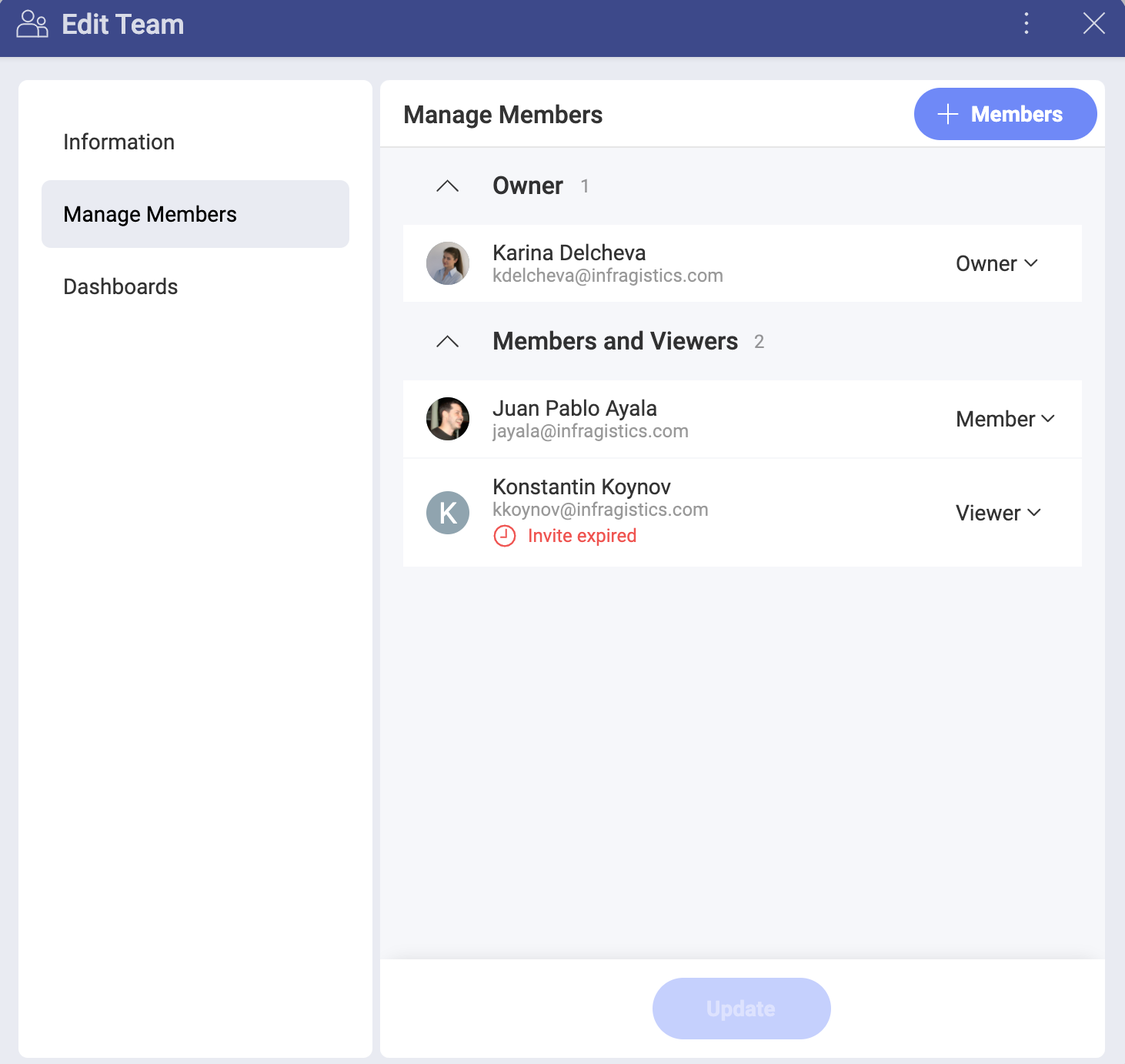
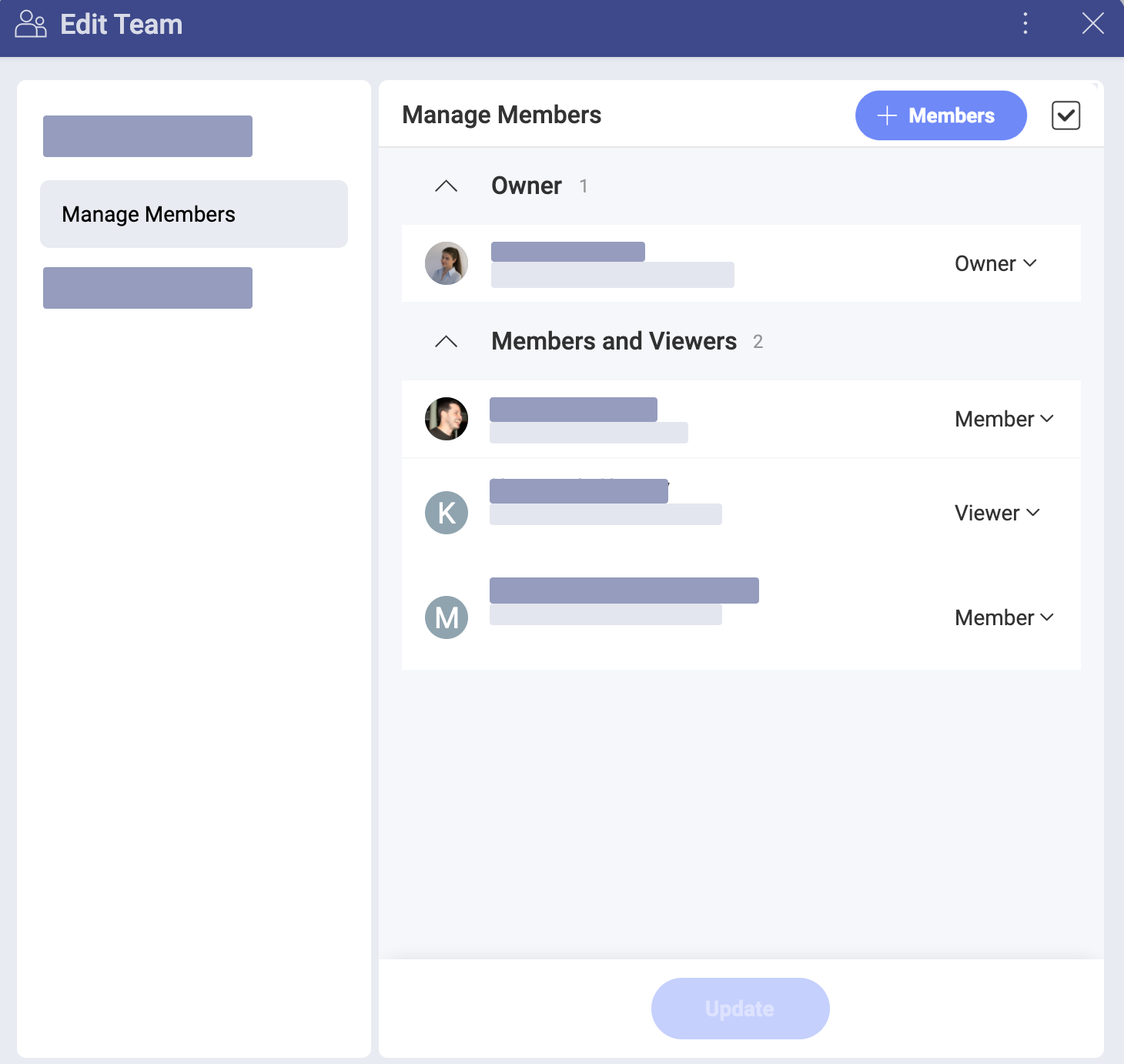
Fix images syntax, add 2 new screenshots and reveal-docs update.

diff --git a/docTopics/en/components/teams-starting.md b/docTopics/en/components/teams-starting.md
@@ -8,52 +8,52 @@ Read on to get answers to most of your questions about teams.
 In Slingshot, people can join an organization, one or more teams, and also one or more projects.  
 The purpose of having an organization team is for company leaders to have the ability to communicate key goals, metrics, strategies, and important announcements throughout their organization.   
 
-![An Organization team](../images/main-organization-team.png)
+**The organization team** is named after your organization (e.g. your company's name). Members need to log in with their organization’s email to be associated with the organization team.
 
-The organization team is named after your organization (e.g. your company's name). Members need to log in with their organization’s email to be associated with the organization team.
+<img src="../images/main-organization-team.png" alt="An Organization team" width="100%"/>
 
-Teams can be associated with the organization team or not. They can include members from within and out of the main organization team. Team members share not only **Content**, **Dashboards**, and **Discussions**, but also **Projects** and **Tasks**.
+**Teams** can be associated with the organization team or not. They can include members from within and out of the main organization team. Team members share not only *Content*, *Dashboards*, and *Discussions*, but also *Projects* and *Tasks*.
 
-![Example of a team and its tasks](../images/teams-example-tasks.png)
+<img src="../images/teams-example-tasks.png" alt="Example of a team and its tasks" width="100%"/>
 
-Projects live inside of a team, but are not limited to its members. You can invite people from other teams to every project. A project contains its own **Overview**, **Tasks**, **Discussions**, **Content**, and **Dashboards**. You can also assign tasks within a project to people, who are not part of the project or the team.
+**Projects** live inside of a team, but are not limited to its members. You can invite people from other teams to every project. A project contains its own *Overview*, *Tasks*, *Discussions*, *Content*, and *Dashboards*. You can also assign tasks within a project to people, who are not part of the project or the team.
 
-![A project Overview](../images/project-example-overview.png)
+<img src="../images/project-example-overview.png" alt="A project Overview" width="100%"/>
 
 ### How Can I Access my Teams?
 
 You can access your teams on the very left of the screen as shown below.
 
-![The Teams navigation menu opened with a list of teams in it](../images/teams-list.png)
+<img src="../images/teams-list.png" alt="The Teams navigation menu opened with a list of teams in it" width="100%"/>
 
-By scrolling down you are able to navigate all your teams and their projects. If you bookmarked a team or project to keep it at hand, you can select _Bookmarks_ to find it faster.   Under each project's name you will find the team it belongs to (see below).
+By scrolling down you are able to navigate all your teams and their projects. If you bookmarked a team or project to keep it at hand, you can select _Bookmarks_ to find it faster.   Under each project's name you will find the team where it lives (see below).
 
-![Teams navigation menu opened and Bookmarks selected](../images/teams-bookmarks.png)
+<img src="../images/teams-bookmarks.png" alt="Teams navigation menu opened and Bookmarks selected" width="100%"/>
 
 To navigate to any team, just click/tap over it.
 
 ### How Can I Discover and Join Other Teams?
 
-To become a team member you first need to discover your new team. Select the _Join or Create a Team_ button at the end of your teams' list to open a dialog with the available teams to join.
+To become a team member you first need to discover your new team. Select the _Join or Create a Team_ button at the bottom of the *Teams* tab to open a dialog with the available teams.
 
-![Join or Create a Team blue button](../images/join-create-button.png)
+<img src="../images/join-create-button.png" alt="Join or Create a Team blue button" width="100%"/>
 
-In this dialog, you will find **only public teams, part of your Organization**. You can join these teams on the spot, getting the Member role.
+In this dialog, you will find **only public teams, part of your organization**. You can join these teams on the spot, getting the Member role by default.
 
 To become part of **private teams or teams outside of your organization**, you need to be invited by their Owner.
 
 ### How Can I Create a New Team?
 
 Every user in Slingshot can create teams.  
-Access the team creation menu by selecting the *Join or Create a Team button* (see screenshot below) > *+ Create Team*.
+Access the team creation menu by selecting the *Teams* tab > *Join or Create a Team* button > *+ Create Team*.
 
-![The Create Team menu](../images/create-team-dialog.png)
+<img src="../images/create-team-dialog.png" alt="The Create Team menu" width="100%"/>
 
 In this dialog, configure the following:
 * ***Team Name*** - giving your team a descriptive and meaningful name is always worth the effort.
 * *(Optional)* ***Description*** - descriptions are helpful and nice to have, but absolutely optional in Slingshot.
-* ***Organization*** - choose whether your team will be part of the Main Organization or will exist as your Personal Team. How to choose and what is the difference?  
-    - **Teams, part of the main organization**, follow the internal rules and principles of the organization. These teams can be [discovered and joined](#how-can-i-discover-and-join-other-teams) by every member of the main Organization.
+* ***Organization*** - choose whether your team will be part of the main organization or will exist as your Personal Team. How to choose and what is the difference?  
+    - **Teams, part of the main organization**, follow the internal rules and principles of the organization. These teams can be [discovered and joined](#how-can-i-discover-and-join-other-teams) by every member of the main organization.
 
     - **Personal Teams** give you more freedom and less discoverability. Others cannot find your team in the _Join list_ so they can join only if they are invited. Only you and other owners of this team can manage it and delete it.
 * **Privacy** - this setting is only available for teams, part of the main organization.
@@ -63,32 +63,39 @@ In this dialog, configure the following:
 >[!NOTE]
 >Be aware that your team can be deleted by an Owner of the main organization anytime (even if you are an Owner too).
 
-Click *Create* and proceed to invite team members by adding their emails to the list:
+Click **Create**. Your team is created and you can find it in the _Teams_ tab. 
 
-![Inviting team members](../images/invite-members.png)
+You are now prompted to start inviting team members, but you can also leave this step for later if you prefer. 
+
+To invite members, click/tap the **+ Members** blue button. You can choose members from the dropdown list (see below) or use the search bar to add the emails of users who are outside of your Organization. 
+
+<img src="../images/team-invite-members.png" alt="Inviting team members" width=100%>
 
 >[!NOTE]
 >When adding members, whose emails are not auto-completed by Slingshot, type the whole email and press Enter to add it to the list of users you want to invite.
 
-After selecting the _Send Invites_ button your new team is created. You will find it in the [Teams' list](#how-can-i-access-my-teams) shown above.
+Select **Done** when you are ready. All users in the list are assigned the default _Member_ role. From the dropdown next to each name, you can change the role to _Owner_ or _Viewer_. How are these roles different from _Member_? See in the [Roles & Permissions](roles-permissions.md) topic.
 
 ### How Can I Get Visibility Over a Team?
 
 Every team has a place where the most important information is visible at first look. This is the **Team Overview**.  
-Upon accessing a team, you will have its overview opened.  
 
-<img src="../images/team-overview.png" alt="A team's overview screen" width="800"/>
+After accessing a team, you will find its *Overview* tab on the left (see below).  
 
-You can find the following elements in every team's overview:
+<img src="../images/overview-tab.png" alt="A team's overview screen" width="100%"/>
 
-1. **Settings** of the team - select the gear icon to view or [change](#how-can-i-change-the-teams-privacy-name-or-description) the team's name, description, organization, and privacy settings. You can also [delete](#deleting-vs-leaving-a-team) the team.
-2. **Team members** - click on the profile images (or initial) icons on the left board to view or [manage members](#how-can-i-manage-team-members).
-3. **Content** - click the overflow menu to pin content, weblinks and dashboards that are essential for your team's work. To do this, select the overflow menu on the right of *CONTENT*. Use the team's *Content* tab on the left to store and organize more content.
+You can find three widgets in every team's overview: **_Details_**, ***Your Mentions*** and ***Task Status*/*Activity***. Each of these widgets includes important information and resources for your team. 
 
-    >[!NOTE] If your teammates don't have the file (folder) in their cloud storage or shared cloud storage, they **will not be able to access the content** pinned in the Team *Overview*. In this case, you can pin the file (folder) in *Content* (in the left tab) to share it with them.
+Let's look at the widgets and their elements more closely. 
+
+1. *(Optional)* **Description** of the team - here you can see the team's description. You can change the description by selecting the *gear icon* on top, next to your team's name.
+2. **Team members** - click on the profile images under the team's description to view and [manage members](#how-can-i-manage-team-members).
+3. **Content** - click the overflow menu to pin content, weblinks and dashboards that are essential for your team's work. To do this, select **+ Pin** at the bottom. Use the team's *Content* tab on top to store and organize more content.
+
+    >[!NOTE] If you pin a file (or folder) in the team *Overview* and your teammates don't have this file (folder) in their personal or shared cloud storage, they will not be able to access it. In this case, select the *Content* tab on top and pin the file (folder). This way you will share it with your teammates and they will be able to access it both from *Content* and *Overview*.
 
 4. **Mentions** - when other team members mention you, a team, or a project of yours (by using the _@ sign_) in a *Topic* in the *Teams' Discussions* or in the _Activity_ chat (see in *number 6* below), you will see a notification on this board. Upon clicking on it, you will be navigated to where the message is located.
-5. **Task Status** - here you will find a list of all members. Under each name, you will see the number of all current tasks for each user. The circle on the right uses colors to show what part of all tasks  is complete (blue), not started (grey), in progress (green), in review (purple), blocked (yellow).
+5. **Task Status** - here you will find a list of all members. Under each name, you will see the number of all current tasks for each user with the number of tasks done. Also, you may see a *fire icon* with a number next to it, which shows how many tasks are overdue. The circle on the right uses colors to show what part of all tasks  is complete (blue), not started (grey), in progress (green), in review (purple), blocked (yellow).
 6. **Activity** - here you will find a log of all recent activity in your team - changes in settings, team members, tasks, etc.
 7. **Overflow** menu - use this menu to add your team's overview to *Bookmarks* or copy a link to it to your clipboard.
 
@@ -101,64 +108,61 @@ Team members are an essential part of the concept of a team. As an owner of a te
 - remove members, and
 - change members' roles.
 
-**Access the team members' dialog** by selecting the team's [Overview](#how-can-i-get-visibility-over-a-team) > Details widget (on the left) >  profile images icons (above _Content_).
+**Access the team members' dialog** by clicking/tapping the 
+*gear icon* next to your team's name. In the _Edit Team_ dialog, select **Manage Members** on the right. 
 
-![The team members' dialog](../images/team-members-dialog.png)
+<img src="../images/team-members-dialog.png" alt="The team members' dialog" width="100%" />
 
-To invite new members click on the *+ Members* blue button.
+To invite new members click/tap the **+ Members** blue button.
 
 In the dialog above, you will find a list of all team members and their roles. You can change each member's role or remove the member from the team by clicking on the role's dropdown.
 
 You can change the role of or remove more than one member at the same time. To do this:
 
 1. Select the checked box on the right of the _+Members_ blue button.
-2. Checkboxes on the right of members' roles appear:
-
-![Checkboxes appear for each member allowing to change roles or delete members simultaneously](../images/select-more-than-one-member.png)
-
-3. Select the checkboxes of members you want to remove/change the roles of.
-4. Choose the trash icon or a role from the menu at the bottom center of the screen and apply for all simultaneously.
+2. Checkboxes on the right of members' roles appear.
+3. Select the checkboxes of members, who you want to remove or whose roles you want to change.
+4. Choose the *trash icon* or a role from the menu at the bottom center of the screen and apply to all simultaneously.
 
 ### Can I Work with People from Outside of a Team?
 
 Sometimes you may need to work on a particular task or project with people outside of your team. In this case, it doesn't make sense to add them as members to your team.
 
-You can assign tasks to members outside of your team in the team's _Tasks_ tab on the left.
+You can assign tasks to users who are external for your team by accessing the team's **Tasks** tab on top and creating a task. 
 
-![Tasks tab in a team](../images/tasks-tab-team.png)
+<img src="../images/tasks-tab-team.png" alt="Tasks tab in a team" width="100%"/>
 
 Users will receive a notification about the task they were assigned. For them the task will appear in _Home > Tasks_.  
-
 
 All members of a team can be members for its projects and you can also add external members to projects.  
 
 To do this:
 
-1. Navigate to your _team > Projects > Selected Project > Project Overview_ (in the tab bar on the left).
-2. Click/tap on the _profile images icons_ (left widget in *Overview*) to open _Who is working on this?_ dialog:
+1. Navigate to your **team > Projects > Selected Project > Project Overview** (in the tab bar on top).
+2. Click/tap on the **profile images icons** (*Details* widget in *Overview*) to open _Edit Project_ dialog:
 
-![External tab in the Who is working on this? dialog](../images/external-members-project.png)
+<img src="../images/external-members-project.png" alt="External tab in the Who is working on this? dialog" width="100%"/>
 
 3. Choose _External > + Members_ blue button to add members who are not part of the team to this project.
 
 You can also go directly to a project's *Tasks* tab and assign a task to an external member.
 
->[!NOTE] **External members** can work with any other Slingshot users. They don't need to be part of the same main organization as you.
+>[!NOTE] **External members** can work with any other Slingshot users. They don't need to be part of the same main Organization as you.
 
 External members, who are added to a project, will receive notifications about the project and its state. They will also be notified when the project is mentioned (by using the *@ sign* + the project's name).
 
 Every team member can stop receiving (unfollow) notifications about a project and its mentions. To do this, navigate to the *Who is working on this?* dialog > *Team members* and unmark the checkbox next to your name, as shown below:
 
-![Unmark checkbox to unfollow project](../images/unfollow-project.png)
+<img src="../images/unfollow-project.png" alt="Unmark checkbox to unfollow project" width="100%"/>
 
 The Owner of a team can also exclude team members from a project.  
-After unfollowing a project, you will receive only notifications about tasks within this project assigned to you.    
+After unfollowing a project, you will receive notifications only about the tasks assigned to you within this project.    
 
 ### How Can I Change the Team's Privacy, Name or Description?
 
-If you are the Owner of a team you can change your team's settings. To do this, go to the team's [Overview](#how-can-i-get-visibility-over-a-team) and select the gear icon:
+If you are the Owner of a team you can change your team's settings. To do this, select your team and click/tap the **gear icon** next on top.
 
-![Accessing team settings](../images/access-team-settings.png)
+<img src="../images/access-team-settings.png" alt="Accessing team settings" width="100%" />
 
 Here you can change your team's name, description and privacy.
 
@@ -167,26 +171,26 @@ Here you can change your team's name, description and privacy.
 
 ### Why are Teams Public By Default?
 
-A newly created team is public by default, meaning that any member of the main organization can search and join the team. Trust and transparency are key elements for effective collaboration, and also help with ownership and accountability.
+A newly created team is public by default, meaning that any member of the main Organization can search and join the team. Trust and transparency are key elements for effective collaboration, and also help with ownership and accountability.
 
-That being said, sometimes you might need to have a private team, leaving your team out of the search results. In this case, users can only join the team by getting invitations from existing members. This is helpful for teams that handle sensitive information, in those cases the organization wants to restrict access.
+That being said, sometimes you might need to have a private team, leaving your team out of the search results. In this case, users can only join the team by getting invitations from existing members. This is helpful for teams that handle sensitive information. In those cases the organization wants to restrict access.
 
 ### Deleting vs Leaving a Team
 
 To make a team disappear from your Slingshot space you can either delete or leave it.
 
-Only the Owner can delete a team. As an exception, you can also delete a team if you have the Member's permissions provided that:
-- the team is part of the main organization;
-- you are an Owner in the main organization.
+Only the *Owner* can delete a team. As an exception, a *Member* can also delete a team provided that:
+- the team is part of the main Organization;
+- they are an Owner in the main Organization.
 
-To delete a team, go to its [settings](#how-can-i-change-the-teams-privacy-name-or-description) and select the overflow button:
+To **delete** a team, go to its [settings](#how-can-i-change-the-teams-privacy-name-or-description) and select the overflow button:
 
-![Overflow button location in the Team's settings](../images/overflow-menu-settings.png)
+<img src="../images/overflow-menu-settings.png" alt="Overflow button location in the Team's settings" width="100%"/>
 
-Deleting a team removes it and all its contents for all its members.
+Deleting removes the team with all its contents for all its members.
 
 To remove a team and its content only for you, use the **leave** option. You can do this by going to the team's [members list](#how-can-i-manage-team-members), click/tap your role and select *Leave* at the bottom. If you are the only Owner of a team you cannot leave it without assigning another member as an Owner.
 
-![Assigning a new Owner before leaving a team](../images/assign-new-owner-team.png)
+<img src="../images/assign-new-owner-team.png" alt="Assigning a new Owner before leaving a team" width="100%"/>
 
 All the members of the team who are suitable for an Owner’s role appear in a list in the *Leave Team?* dialog (see above).

diff --git a/docfx/jp/components/teams-starting.md b/docfx/jp/components/teams-starting.md
@@ -9,27 +9,27 @@ In Slingshot, people can join an organization, one or more teams, and also one o
 The purpose of having an organization team is for company leaders to have the ability to communicate key goals, metrics, strategies, and important announcements throughout their organization.   
 The organization team is named after your organization (e.g. your company's name). Members need to log in with their organization’s email to be associated with the organization team.
 
-![An Organization team](../images/main-organization-team.png)
+<img src="../images/main-organization-team.png" alt="An Organization team" width="100%"/>
 
 The Organization team has only three available tabs on the right: *Discussions, Content*, and *Dashboards*.
 
 Teams can be associated with the organization team or not. They can include members from within and out of the main Organization team. Team members share not only *Content, Dashboards*, and *Discussions*, but also *Projects* and *Tasks*.
 
-![Example of a team and its tasks](../images/teams-example-tasks.png)
+<img src="../images/teams-example-tasks.png" alt="Example of a team and its tasks" width="100%"/>
 
 Projects live inside of a team, but are not limited to its members. You can invite people from other teams to every project. A project contains its own *Overview, Tasks, Discussions, Content,* and *Dashboards*. You can also assign tasks within a project to people, who are not part of the project or the team.
 
-![A project Overview](../images/project-example-overview.png)
+<img src="../images/project-example-overview.png" alt="A project Overview" width="100%"/>
 
 ### How can I access my teams?
 
 You can access your teams on the very left of the screen as shown below.
 
-![The Teams navigation menu opened with a list of teams in it](../images/teams-list.png)
+<img src="../images/teams-list.png" alt="The Teams navigation menu opened with a list of teams in it" width="100%"/>
 
 By scrolling down you are able to navigate all your teams and their projects. If you bookmarked a team to keep it at hand, you can select bookmarks here to find that team faster. This also goes for the projects. Under each project's name you will find the team it is part of (see below).
 
-![Teams navigation menu opened and Bookmarks selected](../images/teams-bookmarks.png)
+<img src="../images/teams-bookmarks.png" alt="Teams navigation menu opened and Bookmarks selected" width="100%"/>
 
 To **navigate to any team**, just click/tap over it.
 
@@ -37,7 +37,7 @@ To **navigate to any team**, just click/tap over it.
 
 To become a team member you first need to discover your new team. Select the _Join or Create a Team_ button at the bottom of your teams' list to open a dialog with the available teams to join:
 
-![Join or Create a Team blue button](../images/join-create-button.png)
+<img src="../images/join-create-button.png" alt="Join or Create a Team blue button" width="100%"/>
 
 In this dialog, you will find **only public teams, which are part of your Organization**. You can join these teams by yourself, receiving the role of a Member.
 
@@ -48,7 +48,7 @@ To become part of **teams, which are outside of your organization**, you need to
 Every user in Slingshot can create teams.  
 **Access the team creation menu** by selecting the *Join or Create a Team button* (see screenshot below) > *+ Create Team*. In this dialog, configure the following:
 
-![The Create Team menu](../images/create-team-dialog.png)
+<img src="../images/create-team-dialog.png" alt="The Create Team menu" width="100%"/>
 
 * ***Team Name*** - giving your team a descriptive and meaningful name is always worth the effort.
 * *(Optional)* ***Description*** - descriptions are helpful and nice to have, but absolutely optional in Slingshot.
@@ -65,7 +65,7 @@ Every user in Slingshot can create teams.
 
 Click *Create* and proceed to **inviting team members** by adding their emails to the list:
 
-![Inviting team members](../images/invite-members.png)
+<img src="../images/invite-members.png" alt="Inviting team members" width="100%"/>
 
 >[!NOTE]
 >When adding members, whose emails are not auto-completed by Slingshot, type the whole email and press Enter to add it to the list of users you want to invite.
@@ -103,7 +103,7 @@ Team members are an essential part of the concept for a team. As an owner of a t
 
 **Access the team members' dialog** by selecting the team's [Overview](#how-can-i-get-visibility-over-a-team) > Details widget (on the left) >  profile images icons (above _Content_).
 
-![The team members' dialog](../images/team-members-dialog.png)
+<img src="../images/team-members-dialog.png" alt="The team members' dialog" width="100%"/>
 
 To **invite new members** click on the *+ Members* blue button.
 
@@ -114,7 +114,7 @@ You can change the role of or remove **more than one member at the same time**. 
 1. Select the checked box on the right of the *+Members* blue button.
 2. Checkboxes on the right of members' roles appear:
 
-![Checkboxes appear for each member allowing to change roles or delete members simultaneously](../images/select-more-than-one-member.png)
+<img src="../images/select-more-than-one-member.png" alt="Checkboxes appear for each member allowing to change roles or delete members simultaneously" width="100%"/>
 
 3. Select the checkboxes of members you want to remove/change the roles of.
 4. Choose the trash icon or a role from the menu at the bottom center of the screen and **apply for all simultaneously**.
@@ -125,7 +125,7 @@ Sometimes you may need to work on a particular task or project with people outsi
 
 You can **assign tasks** to members outside of your team in the team's *Tasks* tab on the left.
 
-![Tasks tab in a team](../images/tasks-tab-team.png)
+<img src="../images/tasks-tab-team.png" alt="Tasks tab in a team" width="100%"/>
 
 Users will receive a notification about the task they were assigned. For them the task will appear in *Home > Tasks*.  
 
@@ -137,7 +137,7 @@ To do this:
 1. Navigate to your **team** > **Projects** > **Selected Project** > Project **Overview** (in the tab bar on the left).
 2. Click/tap on the **profile images icons** (left widget in *Overview*) to open _Who is working on this?_ dialog:
 
-![External tab in the Who is working on this? dialog](../images/external-members-project.png)
+<img src="../images/external-members-project.png" alt="External tab in the Who is working on this? dialog" width="100%"/>
 
 3. Choose **External** > **+ Members** blue button to add members who are not part of the team to this project.
 
@@ -149,7 +149,7 @@ External members, who are added to a project, will receive **notifications** abo
 
 Every team member can **stop receiving (unfollow) notifications** about a project and its mentions. To do this, navigate to the *Who is working on this?* dialog > *Team members* and unmark the checkbox next to your name, as shown below:
 
-![Unmark checkbox to unfollow project](../images/unfollow-project.png)
+<img src="../images/unfollow-project.png" alt="Unmark checkbox to unfollow project" width="100%"/>
 
 The Owner of a team can also exclude team members from a project.  
 After unfollowing a project, you will receive only **notifications about tasks** within this project assigned to you.    
@@ -158,7 +158,7 @@ After unfollowing a project, you will receive only **notifications about tasks**
 
 If you are **the Owner of a team** you can change your team's settings. To do this, go to the team's [Overview](#how-can-i-get-visibility-over-a-team) and select the gear icon:
 
-![Accessing team settings](../images/access-team-settings.png)
+<img src="../images/access-team-settings.png" alt="Accessing team settings" width="100%"/>
 
 Here you can change your team's name, description and privacy.
 

diff --git a/docTopics/en/components/teams.md b/docTopics/en/components/teams.md
@@ -14,16 +14,16 @@ Being part of a team means (or should mean) fluid communication. In Slingshot yo
 
 You can communicate live with the members of your team via **team discussions**, containing topics:
 
-![A team discussion](../images/team-discussion.png)
+<img src="../images/team-discussion.png" alt="A team discussion" width="100%"/>
 
 You can also communicate with any Slingshot user (or group of users) through the **general chat**.
-![Using the chat on the right](../images/chat-several-people.png)
+<img src="../images/chat-several-people.png" alt="Using the chat on the right" width="100%"/>
 
 Communication is not limited to writing. You can also attach files, use emojis, and react to messages.
 
 To support each other, team members can get a sense of the team status at a glance. Using the **team overview** you get visibility over all the team members and their tasks, helping you proactively contact those in need. You can, for example, start a discussion to get a team member's attention. And they will receive a notification to alert them that they were mentioned.
 
-![A team Overview](../images/team-overview-example.png)
+<img src="../images/team-overview-example.png" alt="A team Overview" width="100%"/>
 
 Using shared team resources is required to collaborate, working towards a common objective. One of the best practices in Slingshot is to organize your content in **Boards**. Designed to manage your personal or team content, boards are just containers that point to cloud storages that hold your resources.
 

diff --git a/docTopics/en/components/roles-permissions.md b/docTopics/en/components/roles-permissions.md
@@ -56,9 +56,9 @@ _All the members of a team_ have access to **team cloud storage** connections an
 A newly created team is public by default, meaning that any member of the main organization can search and join the team. Trust and transparency are key elements for effective collaboration, and also help with ownership and accountability.  
 That being said, sometimes you might need to have a private team, leaving your team out of the search results. In this case, users can only join the team by getting invitations from existing members. This is helpful for teams that handle sensitive information, in those cases the organization wants to restrict access.
 
-To change a team's privacy, you need to be one of the owners of the team. To do this, go to the team's [Overview](#how-can-i-get-visibility-over-a-team) and select the gear icon:
+To change a team's privacy, you need to be one of the owners of the team. To do this, select your team and click/tap the gear icon on top next to the team's name:
 
-![Accessing team settings](../images/access-team-settings.png)
+<img src="../images/access-team-settings.png" alt="Accessing team settings" width="100%"/>
 
 Here you can change your team's name, description and privacy.
 
